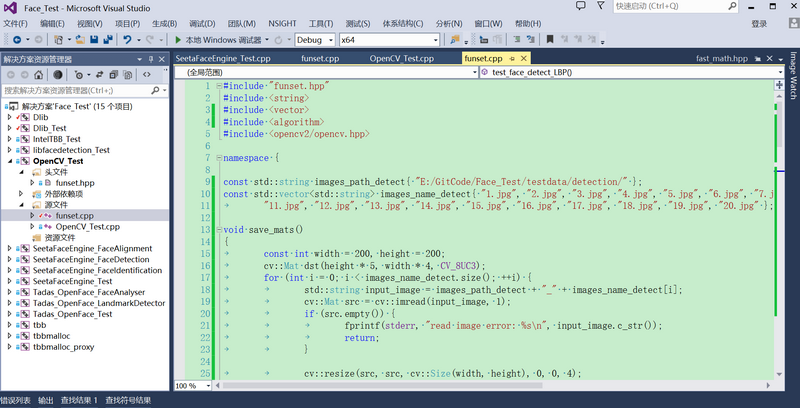
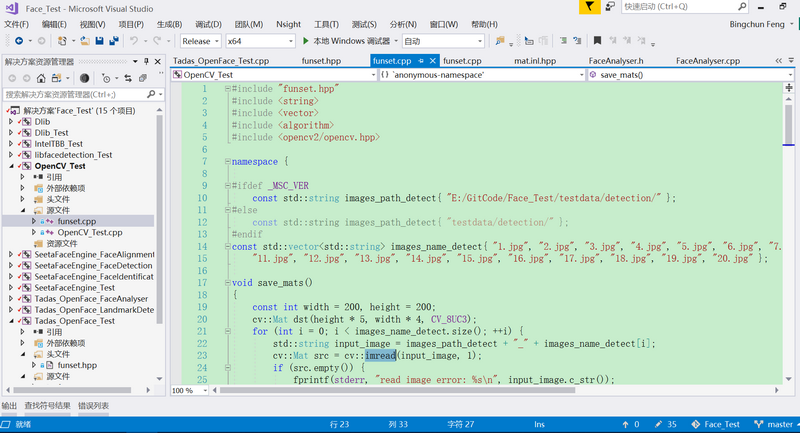
Upgrade vs: from vs2013 to vs2017

diff --git a/src/TadasBaltrusaitis_OpenFace/lib/local/FaceAnalyser/src/FaceAnalyser.cpp b/src/TadasBaltrusaitis_OpenFace/lib/local/FaceAnalyser/src/FaceAnalyser.cpp
@@ -836,20 +836,20 @@ void FaceAnalyser::Reset()
 
 	for( size_t i = 0; i < hog_desc_hist.size(); ++i)
 	{
-		this->hog_desc_hist[i] = cv::Mat_<unsigned int>(hog_desc_hist[i].rows, hog_desc_hist[i].cols, (unsigned int)0);
+		this->hog_desc_hist[i] = cv::Mat_<float>((float)hog_desc_hist[i].rows, (float)hog_desc_hist[i].cols, (float)0);
 		this->hog_hist_sum[i] = 0;
 
 
-		this->face_image_hist[i] = cv::Mat_<unsigned int>(face_image_hist[i].rows, face_image_hist[i].cols, (unsigned int)0);
+		this->face_image_hist[i] = cv::Mat_<float>((float)face_image_hist[i].rows, (float)face_image_hist[i].cols, (float)0);
 		this->face_image_hist_sum[i] = 0;
 
 		// 0 callibration predictions
 		this->au_prediction_correction_count[i] = 0;
-		this->au_prediction_correction_histogram[i] = cv::Mat_<unsigned int>(au_prediction_correction_histogram[i].rows, au_prediction_correction_histogram[i].cols, (unsigned int)0);
+		this->au_prediction_correction_histogram[i] = cv::Mat_<float>((float)au_prediction_correction_histogram[i].rows, (float)au_prediction_correction_histogram[i].cols, (float)0);
 	}
 
 	this->geom_descriptor_median.setTo(cv::Scalar(0));
-	this->geom_desc_hist = cv::Mat_<unsigned int>(geom_desc_hist.rows, geom_desc_hist.cols, (unsigned int)0);
+	this->geom_desc_hist = cv::Mat_<float>((float)geom_desc_hist.rows, (float)geom_desc_hist.cols, (float)0);
 	geom_hist_sum = 0;
 
 	// Reset the predictions
@@ -875,7 +875,7 @@ void FaceAnalyser::Reset()
 	frames_tracking_succ = 0;
 }
 
-void FaceAnalyser::UpdateRunningMedian(cv::Mat_<unsigned int>& histogram, int& hist_count, cv::Mat_<double>& median, const cv::Mat_<double>& descriptor, bool update, int num_bins, double min_val, double max_val)
+void FaceAnalyser::UpdateRunningMedian(cv::Mat_<float>& histogram, int& hist_count, cv::Mat_<double>& median, const cv::Mat_<double>& descriptor, bool update, int num_bins, double min_val, double max_val)
 {
 
 	double length = max_val - min_val;
@@ -885,7 +885,7 @@ void FaceAnalyser::UpdateRunningMedian(cv::Mat_<unsigned int>& histogram, int& h
 	// The median update
 	if(histogram.empty())
 	{
-		histogram = cv::Mat_<unsigned int>(descriptor.cols, num_bins, (unsigned int)0);
+		histogram = cv::Mat_<float>((float)descriptor.cols, (float)num_bins, (float)0);
 		median = descriptor.clone();
 	}
 
@@ -901,7 +901,7 @@ void FaceAnalyser::UpdateRunningMedian(cv::Mat_<unsigned int>& histogram, int& h
 		for(int i = 0; i < histogram.rows; ++i)
 		{
 			int index = (int)converted_descriptor.at<double>(i);
-			histogram.at<unsigned int>(i, index)++;
+			histogram.at<float>(i, index)++;
 		}
 
 		// Update the histogram count
@@ -923,7 +923,7 @@ void FaceAnalyser::UpdateRunningMedian(cv::Mat_<unsigned int>& histogram, int& h
 			int cummulative_sum = 0;
 			for(int j = 0; j < histogram.cols; ++j)
 			{
-				cummulative_sum += histogram.at<unsigned int>(i, j);
+				cummulative_sum += histogram.at<float>(i, j);
 				if(cummulative_sum >= cutoff_point)
 				{
 					median.at<double>(i) = min_val + ((double)j) * (length/((double)num_bins)) + (0.5*(length)/ ((double)num_bins));
@@ -935,7 +935,7 @@ void FaceAnalyser::UpdateRunningMedian(cv::Mat_<unsigned int>& histogram, int& h
 }
 
 
-void FaceAnalyser::ExtractMedian(cv::Mat_<unsigned int>& histogram, int hist_count, cv::Mat_<double>& median, int num_bins, double min_val, double max_val)
+void FaceAnalyser::ExtractMedian(cv::Mat_<float>& histogram, int hist_count, cv::Mat_<double>& median, int num_bins, double min_val, double max_val)
 {
 
 	double length = max_val - min_val;
@@ -963,7 +963,7 @@ void FaceAnalyser::ExtractMedian(cv::Mat_<unsigned int>& histogram, int hist_cou
 			int cummulative_sum = 0;
 			for(int j = 0; j < histogram.cols; ++j)
 			{
-				cummulative_sum += histogram.at<unsigned int>(i, j);
+				cummulative_sum += histogram.at<float>(i, j);
 				if(cummulative_sum > cutoff_point)
 				{
 					median.at<double>(i) = min_val + j * (max_val/num_bins) + (0.5*(length)/num_bins);
@@ -1185,7 +1185,7 @@ void FaceAnalyser::ReadAU(std::string au_model_location)
   
 }
 
-void FaceAnalyser::UpdatePredictionTrack(cv::Mat_<unsigned int>& prediction_corr_histogram, int& prediction_correction_count, vector<double>& correction, const vector<pair<string, double>>& predictions, double ratio, int num_bins, double min_val, double max_val, int min_frames)
+void FaceAnalyser::UpdatePredictionTrack(cv::Mat_<float>& prediction_corr_histogram, int& prediction_correction_count, vector<double>& correction, const vector<pair<string, double>>& predictions, double ratio, int num_bins, double min_val, double max_val, int min_frames)
 {
 	double length = max_val - min_val;
 	if(length < 0)
@@ -1196,7 +1196,7 @@ void FaceAnalyser::UpdatePredictionTrack(cv::Mat_<unsigned int>& prediction_corr
 	// The median update
 	if(prediction_corr_histogram.empty())
 	{
-		prediction_corr_histogram = cv::Mat_<unsigned int>(predictions.size(), num_bins, (unsigned int)0);
+		prediction_corr_histogram = cv::Mat_<float>((float)predictions.size(), (float)num_bins, (float)0);
 	}
 	
 	for(int i = 0; i < prediction_corr_histogram.rows; ++i)
@@ -1211,7 +1211,7 @@ void FaceAnalyser::UpdatePredictionTrack(cv::Mat_<unsigned int>& prediction_corr
 		{
 			index = num_bins - 1;
 		}
-		prediction_corr_histogram.at<unsigned int>(i, index)++;
+		prediction_corr_histogram.at<float>(i, index)++;
 	}
 
 	// Update the histogram count
@@ -1228,7 +1228,7 @@ void FaceAnalyser::UpdatePredictionTrack(cv::Mat_<unsigned int>& prediction_corr
 			int cummulative_sum = 0;
 			for(int j = 0; j < prediction_corr_histogram.cols; ++j)
 			{
-				cummulative_sum += prediction_corr_histogram.at<unsigned int>(i, j);
+				cummulative_sum += prediction_corr_histogram.at<float>(i, j);
 				if(cummulative_sum > cutoff_point)
 				{
 					double corr = min_val + j * (length/num_bins);
@@ -1240,7 +1240,7 @@ void FaceAnalyser::UpdatePredictionTrack(cv::Mat_<unsigned int>& prediction_corr
 	}
 }
 
-void FaceAnalyser::GetSampleHist(cv::Mat_<unsigned int>& prediction_corr_histogram, int prediction_correction_count, vector<double>& sample, double ratio, int num_bins, double min_val, double max_val)
+void FaceAnalyser::GetSampleHist(cv::Mat_<float>& prediction_corr_histogram, int prediction_correction_count, vector<double>& sample, double ratio, int num_bins, double min_val, double max_val)
 {
 
 	double length = max_val - min_val;
@@ -1258,7 +1258,7 @@ void FaceAnalyser::GetSampleHist(cv::Mat_<unsigned int>& prediction_corr_histogr
 		int cummulative_sum = 0;
 		for(int j = 0; j < prediction_corr_histogram.cols; ++j)
 		{
-			cummulative_sum += prediction_corr_histogram.at<unsigned int>(i, j);
+			cummulative_sum += prediction_corr_histogram.at<float>(i, j);
 			if(cummulative_sum > cutoff_point)
 			{
 				double corr = min_val + j * (length/num_bins);

diff --git a/src/TadasBaltrusaitis_OpenFace/lib/local/FaceAnalyser/include/FaceAnalyser.h b/src/TadasBaltrusaitis_OpenFace/lib/local/FaceAnalyser/include/FaceAnalyser.h
@@ -164,10 +164,10 @@ private:
 
 	// Use histograms for quick (but approximate) median computation
 	// Use the same for
-	vector<cv::Mat_<unsigned int> > hog_desc_hist;
+	vector<cv::Mat_<float> > hog_desc_hist;
 
 	// This is not being used at the moment as it is a bit slow
-	vector<cv::Mat_<unsigned int> > face_image_hist;
+	vector<cv::Mat_<float> > face_image_hist;
 	vector<int> face_image_hist_sum;
 
 	vector<cv::Vec3d> head_orientations;
@@ -183,7 +183,7 @@ private:
 	cv::Mat_<double> geom_descriptor_median;
 	
 	int geom_hist_sum;
-	cv::Mat_<unsigned int> geom_desc_hist;
+	cv::Mat_<float> geom_desc_hist;
 	int num_bins_geom;
 	double min_val_geom;
 	double max_val_geom;
@@ -205,8 +205,8 @@ private:
 	// A utility function for keeping track of approximate running medians used for AU and emotion inference using a set of histograms (the histograms are evenly spaced from min_val to max_val)
 	// Descriptor has to be a row vector
 	// TODO this duplicates some other code
-	void UpdateRunningMedian(cv::Mat_<unsigned int>& histogram, int& hist_sum, cv::Mat_<double>& median, const cv::Mat_<double>& descriptor, bool update, int num_bins, double min_val, double max_val);
-	void ExtractMedian(cv::Mat_<unsigned int>& histogram, int hist_count, cv::Mat_<double>& median, int num_bins, double min_val, double max_val);
+	void UpdateRunningMedian(cv::Mat_<float>& histogram, int& hist_sum, cv::Mat_<double>& median, const cv::Mat_<double>& descriptor, bool update, int num_bins, double min_val, double max_val);
+	void ExtractMedian(cv::Mat_<float>& histogram, int hist_count, cv::Mat_<double>& median, int num_bins, double min_val, double max_val);
 	
 	// The linear SVR regressors
 	SVR_static_lin_regressors AU_SVR_static_appearance_lin_regressors;
@@ -218,12 +218,12 @@ private:
 
 	// The AUs predicted by the model are not always 0 calibrated to a person. That is they don't always predict 0 for a neutral expression
 	// Keeping track of the predictions we can correct for this, by assuming that at least "ratio" of frames are neutral and subtract that value of prediction, only perform the correction after min_frames
-	void UpdatePredictionTrack(cv::Mat_<unsigned int>& prediction_corr_histogram, int& prediction_correction_count, vector<double>& correction, const vector<pair<string, double>>& predictions, double ratio=0.25, int num_bins = 200, double min_val = -3, double max_val = 5, int min_frames = 10);
-	void GetSampleHist(cv::Mat_<unsigned int>& prediction_corr_histogram, int prediction_correction_count, vector<double>& sample, double ratio, int num_bins = 200, double min_val = 0, double max_val = 5);
+	void UpdatePredictionTrack(cv::Mat_<float>& prediction_corr_histogram, int& prediction_correction_count, vector<double>& correction, const vector<pair<string, double>>& predictions, double ratio=0.25, int num_bins = 200, double min_val = -3, double max_val = 5, int min_frames = 10);
+	void GetSampleHist(cv::Mat_<float>& prediction_corr_histogram, int prediction_correction_count, vector<double>& sample, double ratio, int num_bins = 200, double min_val = 0, double max_val = 5);
 
 	void PostprocessPredictions();
 
-	vector<cv::Mat_<unsigned int>> au_prediction_correction_histogram;
+	vector<cv::Mat_<float>> au_prediction_correction_histogram;
 	vector<int> au_prediction_correction_count;
 
 	// Some dynamic scaling (the logic is that before the extreme versions of expression or emotion are shown,

diff --git a/demo/Tadas_OpenFace_Test/Tadas_OpenFace_Test.cpp b/demo/Tadas_OpenFace_Test/Tadas_OpenFace_Test.cpp
@@ -3,7 +3,7 @@
 
 int main()
 {
-	int ret = test_face_landmark();
+	int ret = test_FaceDetect_HOG();
 
 	if (ret == 0) fprintf(stdout, "====== test success ======\n");
 	else fprintf(stderr, "###### test fail ######\n");

diff --git a/README.md b/README.md
@@ -17,7 +17,7 @@
 	- face detection(LBP)
 
 **The project support platform:**
-- windows7/10 64 bits: It can be directly build with VS2013 in windows7/10 64bits.
+- windows7/10 64 bits: It can be directly build with VS2017 in windows7/10 64bits.
 - Linux:
 	- OpenCV_Test support cmake build(file position: prj/linux_cmake_OpenCV_Test)
 	- Dlib_Test support cmake build(file position: prj/linux_cmake_Dlib_Test)
